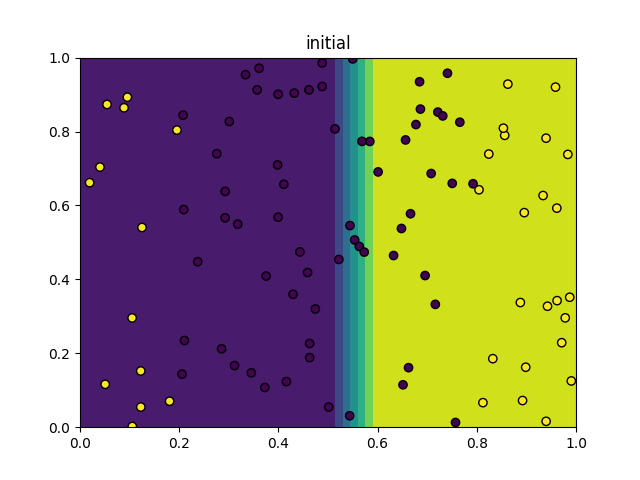
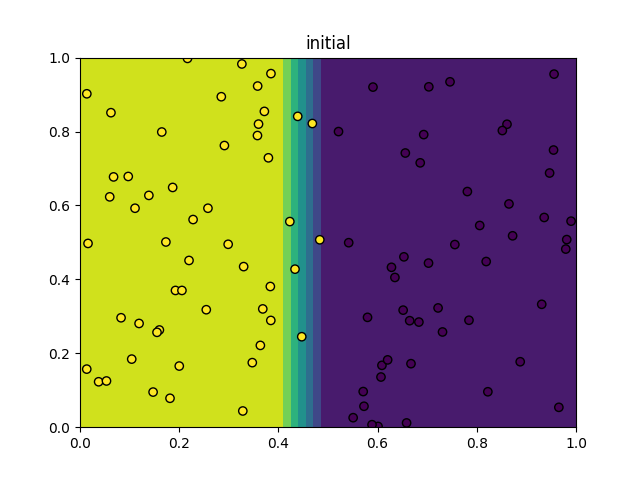
modulo 0 terminado

diff --git a/Module-0/project/task053.py b/Module-0/project/task053.py
@@ -1,0 +1,12 @@
+from datasets import Simple, Split, Xor
+N = 100
+
+
+def classify(pt):
+    "Classify based on x position"
+    if pt[0] < 0.5 and pt[1]<0.5 or pt[0] > 0.5 and pt[1] > 0.5:
+        return 1.0
+    else:
+        return 0.0
+
+Xor(N, vis=True).graph("initial", model=classify)

diff --git a/Module-0/project/task052.py b/Module-0/project/task052.py
@@ -1,10 +1,10 @@
 from datasets import Simple, Split, Xor
 N = 100
-Simple(N, vis=True).graph("initial")
+
 
 def classify(pt):
     "Classify based on x position"
-    if pt[0] > 0.5:
+    if pt[0] > 0.8 or pt[0]<0.2:
         return 1.0
     else:
         return 0.0

diff --git a/Module-0/project/task051.py b/Module-0/project/task051.py
@@ -1,0 +1,12 @@
+from datasets import Simple, Split, Xor
+N = 100
+
+
+def classify(pt):
+    "Classify based on x position"
+    if pt[0] < 0.5:
+        return 1.0
+    else:
+        return 0.0
+
+Simple(N, vis=True).graph("initial", model=classify)
